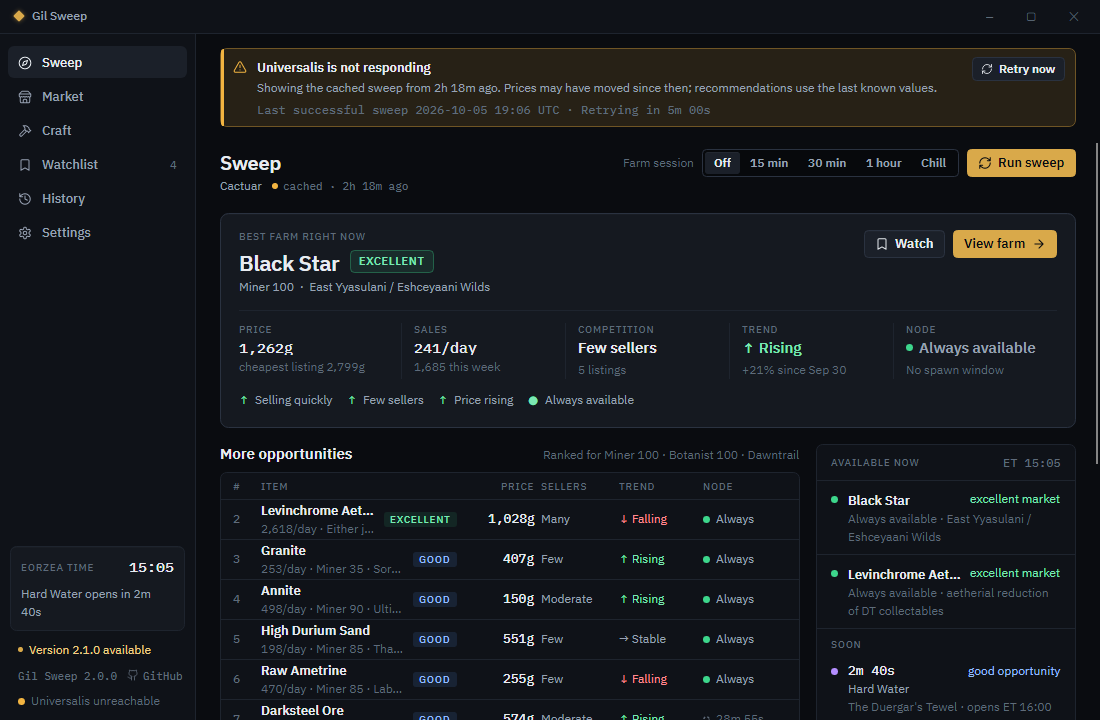
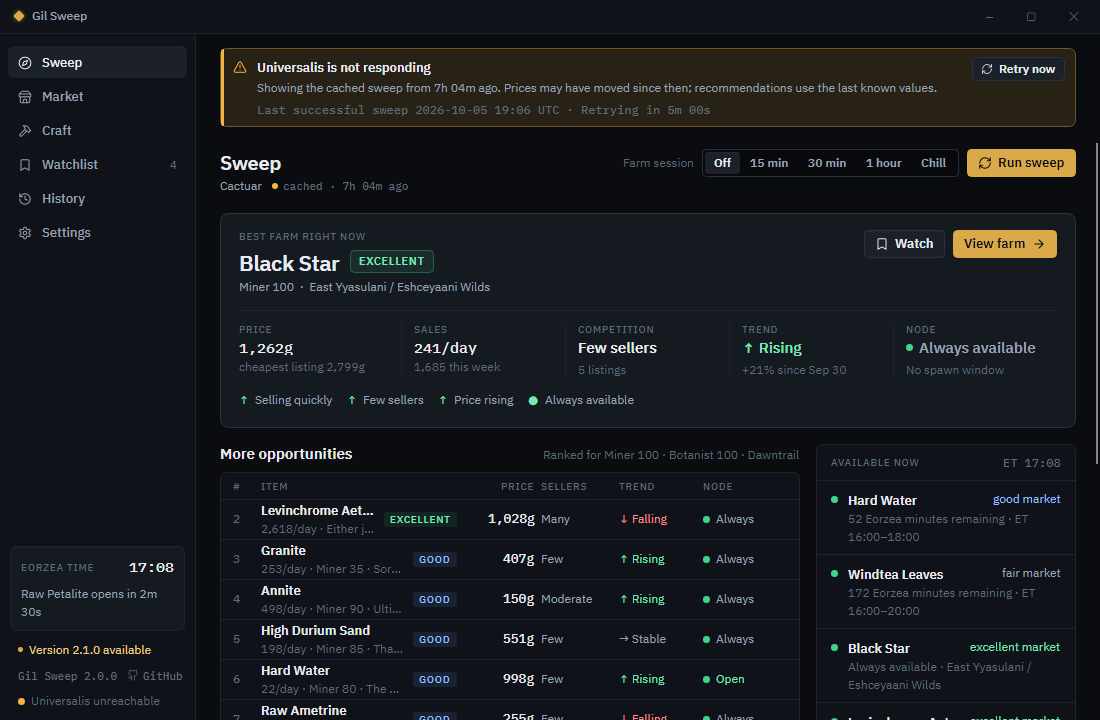
feat(sweep): say when prices are hours old
After six hours without a sweep (hourly sweeps off, or the PC slept), Sweep shows a banner with Sweep now and the freshness dot turns amber. Adds the stale screenshot.

diff --git a/src/GilSweep.Desktop/ViewModels/SweepViewModel.cs b/src/GilSweep.Desktop/ViewModels/SweepViewModel.cs
@@ -22,6 +22,8 @@ public sealed partial class SweepViewModel : PageViewModel
 {
     public const int RankedRows = 12;
 
+    public static readonly TimeSpan StaleAfter = TimeSpan.FromHours(6);
+
     private readonly AppSession _session;
     private readonly IWatchlistService _watchlist;
     private readonly INavigator _navigator;
@@ -120,6 +122,10 @@ public sealed partial class SweepViewModel : PageViewModel
     [ObservableProperty]
     public partial string? Warning { get; private set; }
 
+    /// <summary>The last sweep is hours old (hourly sweeps off, or the PC slept): prices may have moved.</summary>
+    [ObservableProperty]
+    public partial string? StaleNotice { get; private set; }
+
     /// <summary>Data, but nothing this character can farm (low levels, or nothing sells).</summary>
     [ObservableProperty]
     public partial bool NothingFarmable { get; private set; }
@@ -217,8 +223,12 @@ public sealed partial class SweepViewModel : PageViewModel
         else
         {
             Freshness = _session.SnapshotAge is { } age ? "updated " + Formatting.Ago(age) : "not swept yet";
-            FreshnessTone = _session.HasData ? Tone.Healthy : Tone.Unknown;
+            FreshnessTone = _session.SnapshotAge >= StaleAfter ? Tone.Warning : _session.HasData ? Tone.Healthy : Tone.Unknown;
         }
+
+        StaleNotice = !_session.IsSweeping && !_session.IsOffline && _session.SnapshotAge is { } old && old >= StaleAfter
+            ? $"The last sweep was {Formatting.Ago(old)}. Recommendations use its prices until the next one."
+            : null;
     }
 
     private void UpdateSession()

diff --git a/tools/GilSweep.Screenshots/Program.cs b/tools/GilSweep.Screenshots/Program.cs
@@ -2,6 +2,7 @@ using Avalonia;
 using Avalonia.Controls;
 using Avalonia.Headless;
 using Avalonia.Threading;
+using GilSweep.Core.Configuration;
 using GilSweep.Desktop;
 using GilSweep.Desktop.Services;
 using GilSweep.Desktop.ViewModels;
@@ -54,10 +55,15 @@ internal static class Program
         ScrollToEnd(window);
         Shot(window, "settings-update");
 
-        // Universalis goes down two hours later: the cached sweep stays on screen with a banner.
+        // With hourly sweeps off, seven hours later the prices are stale.
         Go(main, AppPage.Sweep);
+        services.GetRequiredService<ISettingsService>().Update(settings => settings.AutoSweep = false);
+        world.Clock.Now += TimeSpan.FromHours(7);
+        world.Ticker.Beat();
+        Shot(window, "stale");
+
+        // Then Universalis goes down: the cached sweep stays on screen with a banner.
         world.Market.Down = true;
-        world.Clock.Now += TimeSpan.FromMinutes(134);
         world.Ticker.Beat();
         Run(services.GetRequiredService<AppSession>().SweepAsync());
         Shot(window, "offline");

diff --git a/tests/GilSweep.Tests/Desktop/ViewModelTests.cs b/tests/GilSweep.Tests/Desktop/ViewModelTests.cs
@@ -155,6 +155,23 @@ public sealed class SweepScreenTests : IDisposable
     }
 
     [Fact]
+    public async Task Hours_without_a_sweep_say_the_prices_may_have_moved()
+    {
+        await _host.StartWithSweepAsync();
+        _host.Get<ISettingsService>().Update(settings => settings.AutoSweep = false);
+        var sweep = _host.Get<SweepViewModel>();
+
+        _host.Advance(TimeSpan.FromHours(5));
+        Assert.Null(sweep.StaleNotice);
+
+        _host.Advance(TimeSpan.FromHours(2));
+        Assert.Equal("The last sweep was 7h 00m ago. Recommendations use its prices until the next one.", sweep.StaleNotice);
+
+        await _host.Session.SweepAsync();
+        Assert.Null(sweep.StaleNotice);
+    }
+
+    [Fact]
     public async Task Raising_a_level_re_ranks_without_a_new_sweep()
     {
         await _host.StartWithSweepAsync();
